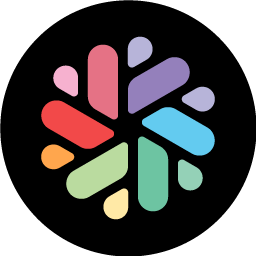
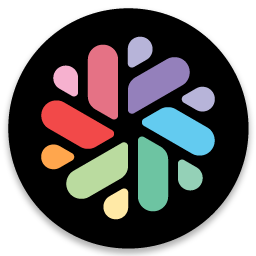
Updated `README.md`

Changed region(s): [[0.0, 0.0, 1.0, 1.0]]

diff --git a/README.md b/README.md
@@ -1,15 +1,19 @@
-# Styx for VS Code
+<!-- # Styx for VS Code -->
 
 <!-- ![styx-preview](https://raw.githubusercontent.com/hshhrr/vscode-styx/main/assets/previews/styx-preview.png?raw=true)
 A dark color theme for Visual Studio Code with a full black UI. -->
 
-<br/>
+<!-- <br/> -->
 
 <div align="center">
-	<img alt="styx-icon" style="width:128px;height:128px;" src="https://raw.githubusercontent.com/hshhrr/vscode-styx/main/assets/styx.png?raw=true">
+	<img alt="styx-icon" style="width:256px;height:256px;" src="https://raw.githubusercontent.com/hshhrr/vscode-styx/main/assets/styx.png?raw=true">
 </div>
 
 <br/>
+
+<h1 align="center">
+    Styx for VSCode
+</h1>
 
 <p align="center">
 	<i>
